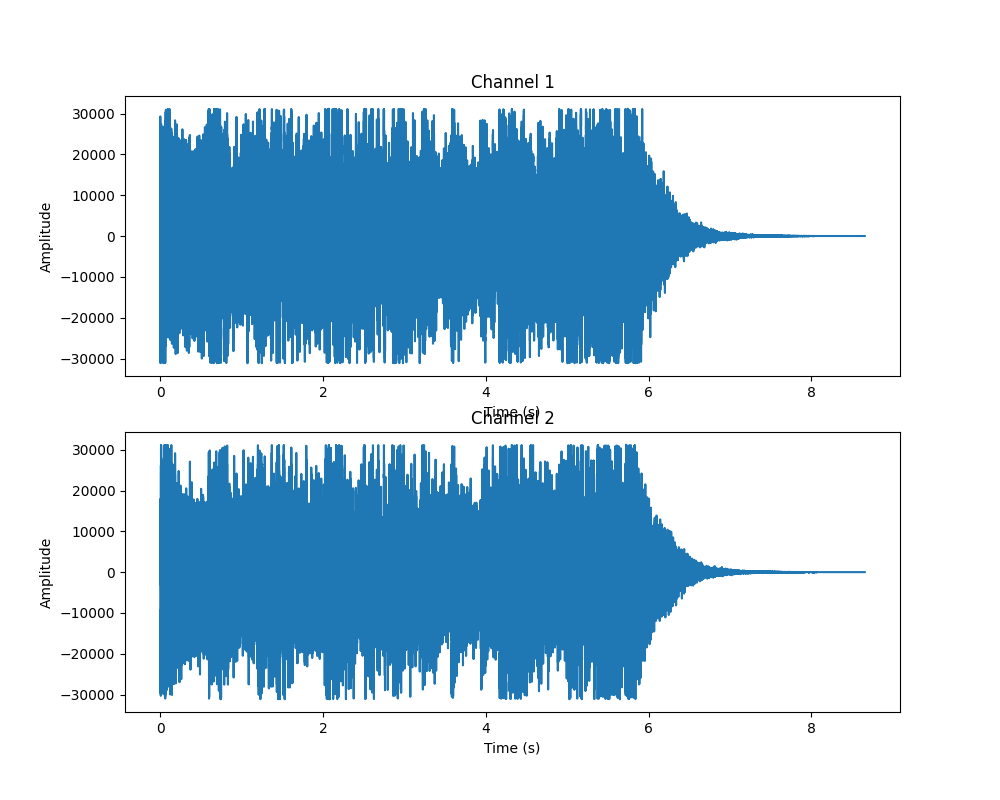
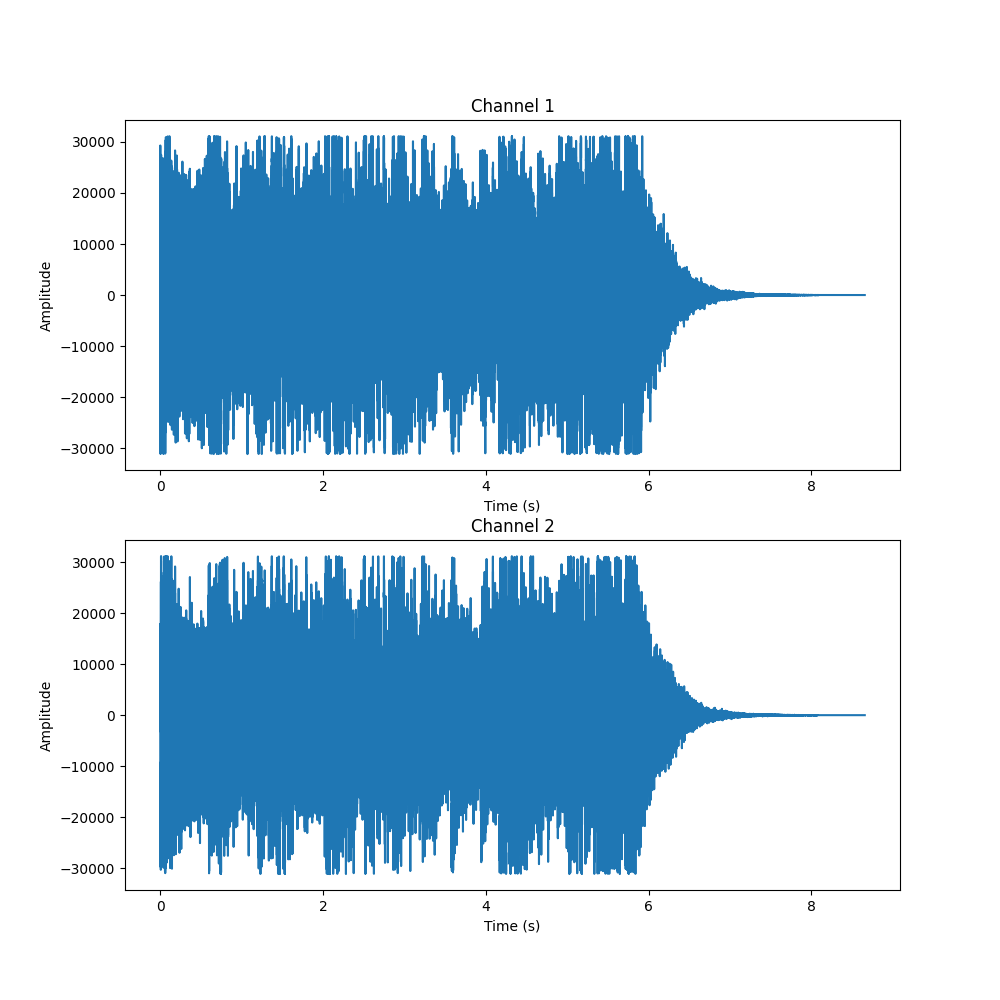
lab 5 almost done

diff --git a/Lab5/Q2b.py b/Lab5/Q2b.py
@@ -9,7 +9,7 @@ dat_2 = data[:, 1]
 
 time = np.arange(len(dat_1)) / sample_rate
 
-plt.figure(figsize=(10, 8))
+plt.figure(figsize=(10, 10))
 
 plt.subplot(2, 1, 1)
 plt.plot(time, dat_1)
